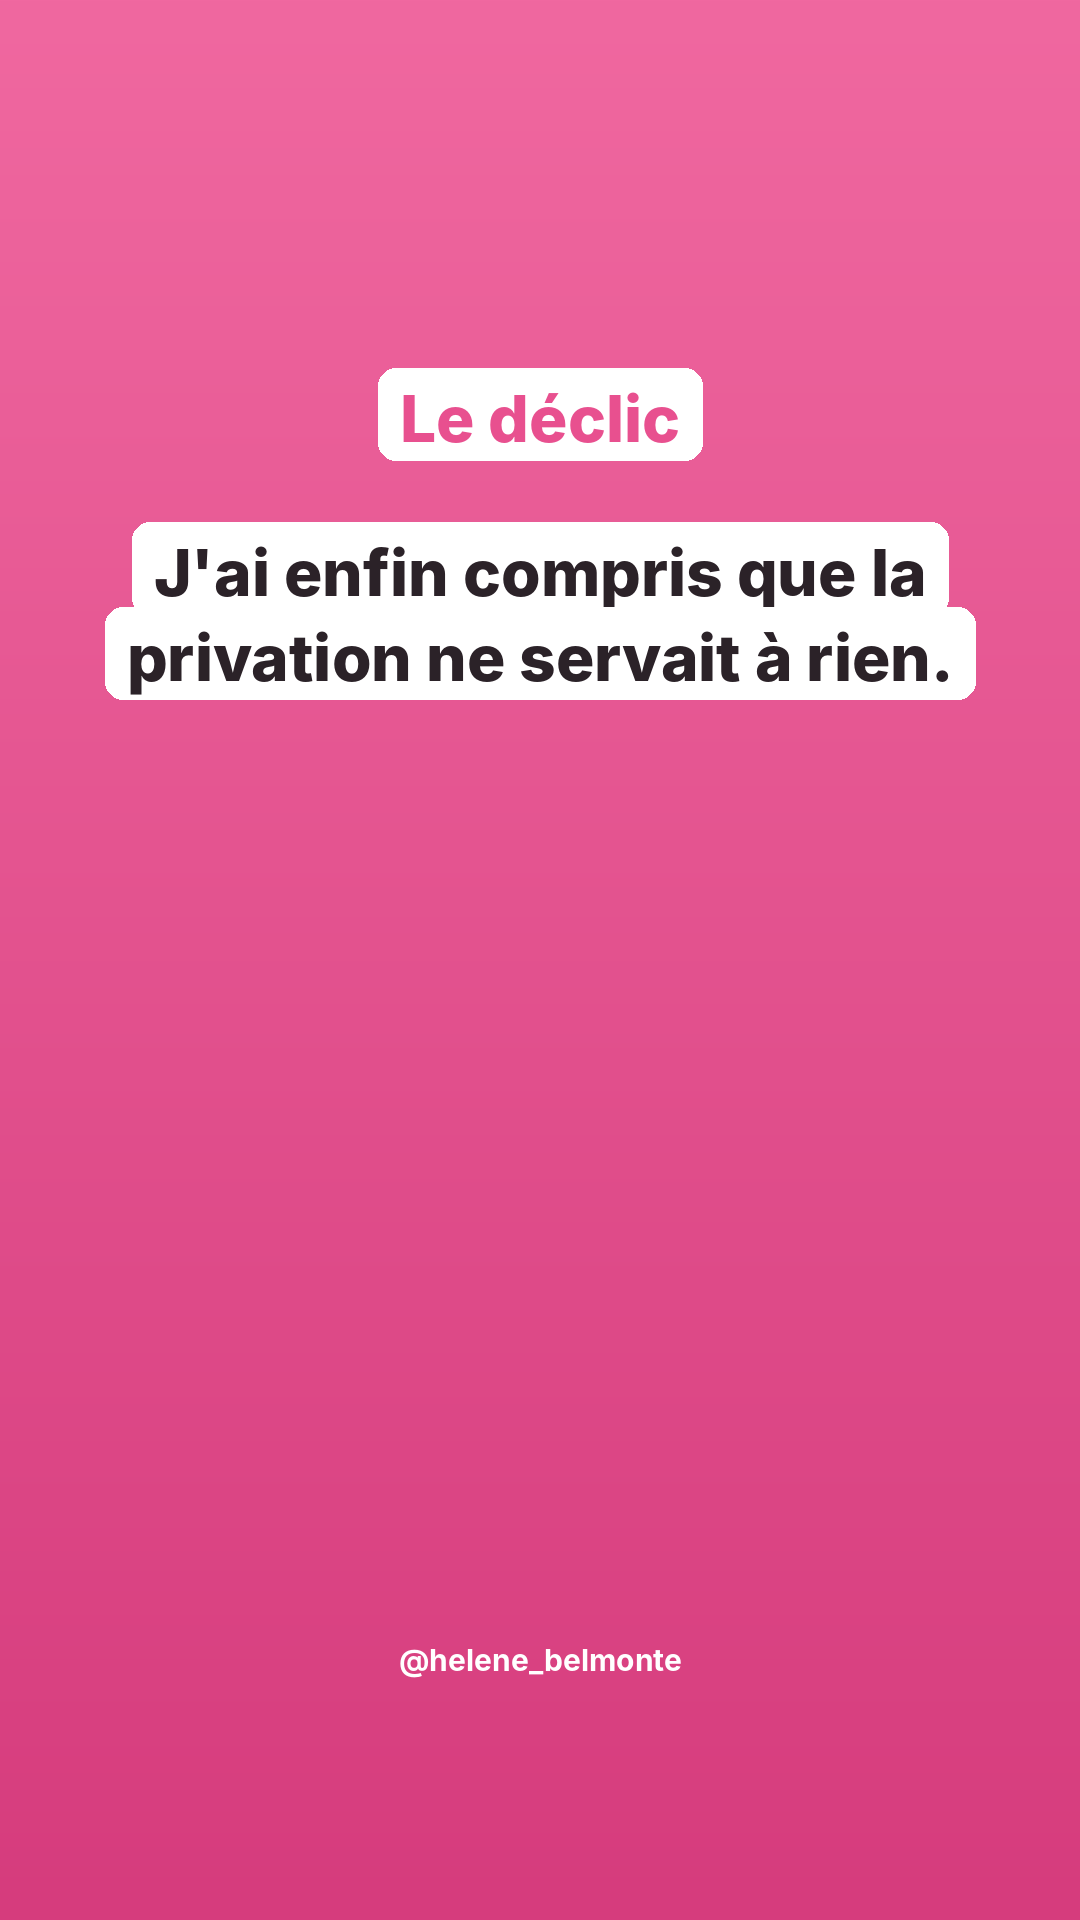
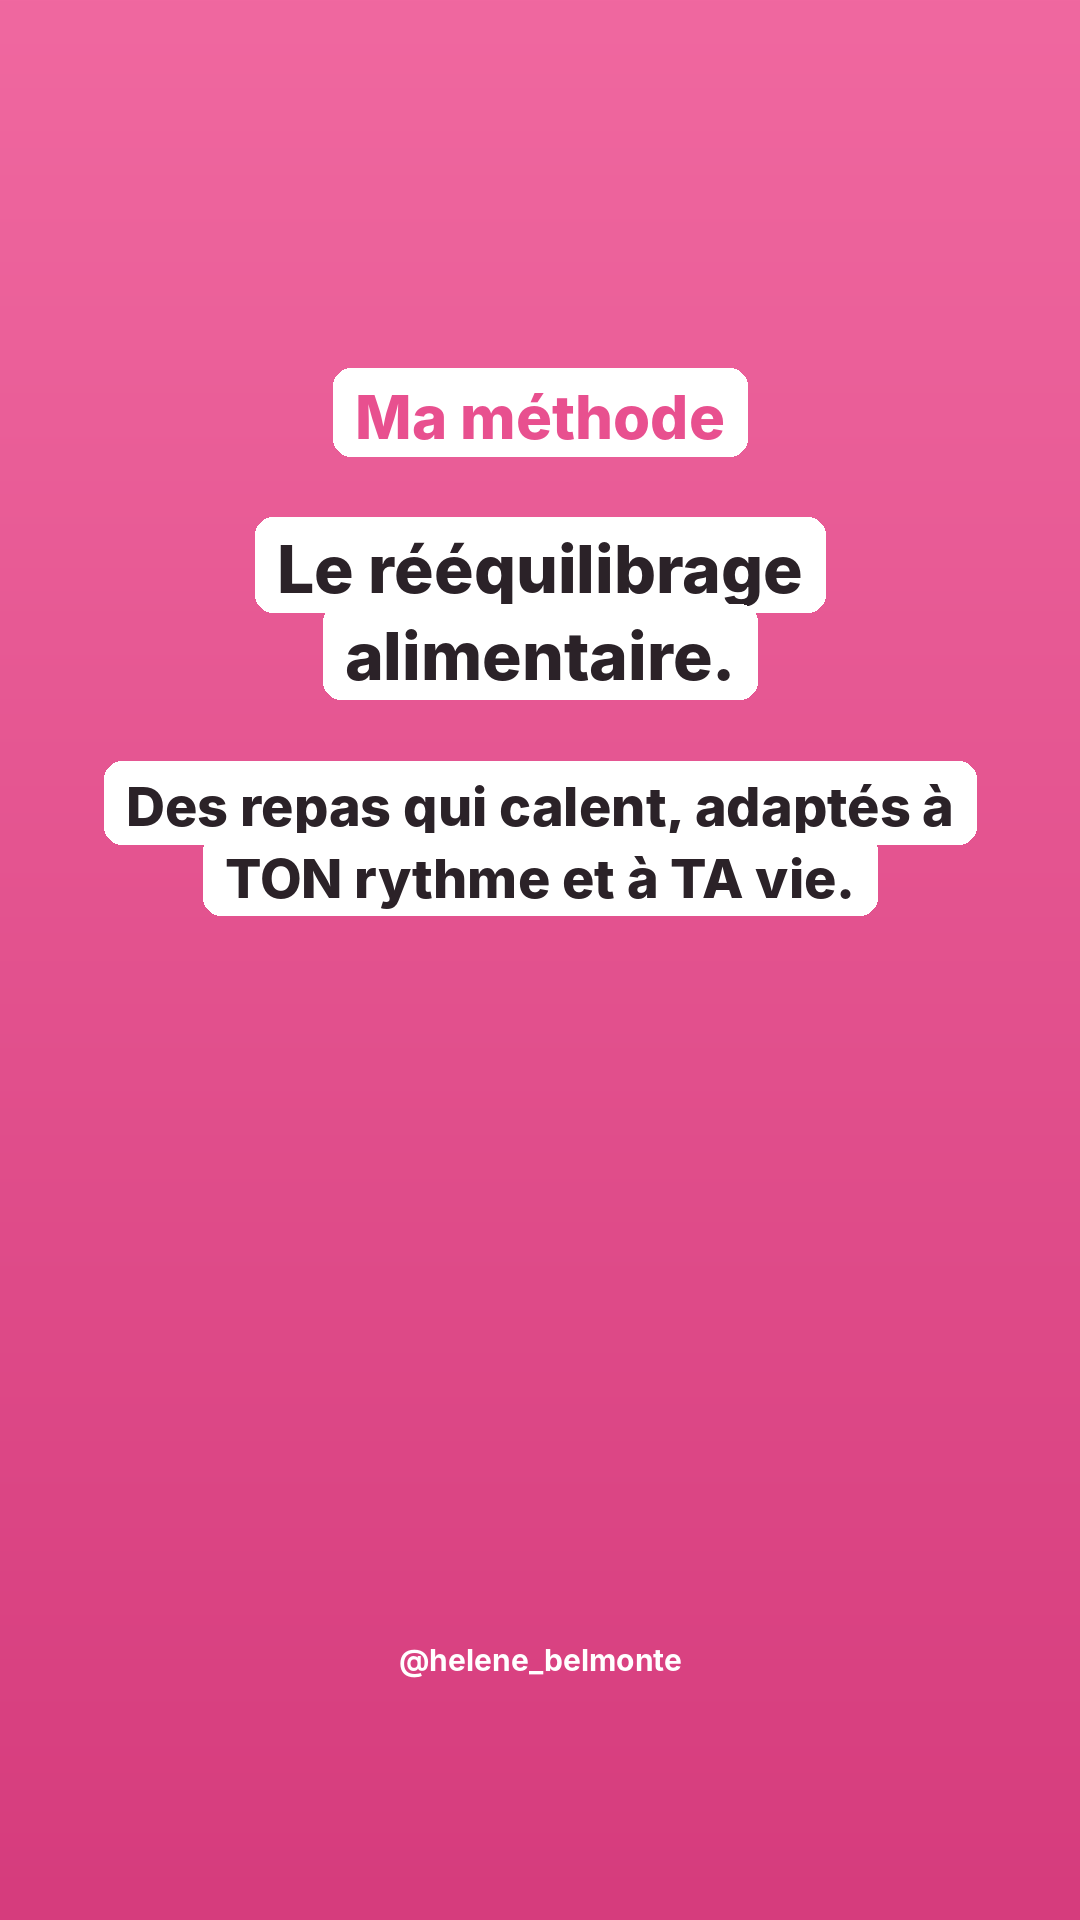
Stories mercredi : version moins perso
Claude-Session: https://claude.ai/code/session_01Qu7Kbk7XztmX7tXcsqwXcr

Changed region(s): [[0.0917, 0.25, 0.9167, 0.5], [0.3056, 0.1875, 0.7028, 0.25]]

diff --git a/contenus/2026-11-25_stories_mercredi_sur_moi/contenu.py b/contenus/2026-11-25_stories_mercredi_sur_moi/contenu.py
@@ -1,20 +1,20 @@
 STORIES = [
- {"bg": "dark", "blocs": [("Je ne vous ai jamais vraiment raconté ça…", 46, "white", "b"),
-                          ("Pendant des années, j'ai eu peur de manger.", 78, "pink"),
-                          ("Je te raconte →", 44, "white", "b")]},
- {"bg": "pink", "blocs": [("Ado, j'étais très complexée.", 62, "white"),
-                          ("Au lycée, j'ai pris beaucoup de poids.\nEt la nourriture est devenue compliquée.", 52, "white")]},
- {"bg": "pink", "blocs": [("J'ai fait appel à plusieurs coachs.", 62, "white"),
-                          ("Je perdais du poids…\npuis je reprenais tout.", 56, "white"),
-                          ("Chaque repas me stressait.", 52, "dark")]},
+ {"bg": "dark", "blocs": [("Pourquoi je ne donne jamais de programme strict à mes clientes", 72, "pink"),
+                          ("Je t'explique →", 44, "white", "b")]},
+ {"bg": "pink", "blocs": [("Je suis aide-soignante.", 64, "white"),
+                          ("Horaires décalés, journées à rallonge, repas sur le pouce…\nJe connais par cœur.", 52, "white")]},
+ {"bg": "pink", "blocs": [("Alors je le sais :", 60, "white"),
+                          ("un programme trop strict, on ne le tient pas.", 64, "dark"),
+                          ("Au bout de 2 semaines, on craque… et on culpabilise.", 52, "white")]},
  {"bg": "dark", "blocs": [("Et toi ?", 70, "pink"),
-                          ("Tu as déjà repris tout le poids que tu avais perdu ?", 60, "white")]},
- {"bg": "pink", "blocs": [("Le déclic", 64, "pinktxt"),
-                          ("J'ai enfin compris que la privation ne servait à rien.", 64, "white")]},
- {"bg": "pink", "blocs": [("Grâce au rééquilibrage alimentaire, j'ai perdu 10 kg.", 60, "white"),
-                          ("Et je ne les ai jamais repris.", 64, "dark"),
-                          ("Aujourd'hui, je me fais plaisir à chaque repas.", 52, "white")]},
- {"bg": "pink", "blocs": [("Si tu te reconnais dans mon histoire…", 60, "white"),
-                          ("Écris-moi MOI en message", 64, "dark"),
-                          ("Je te dis par où commencer, à ton rythme.", 48, "white", "b")]},
+                          ("Tu as déjà abandonné un programme parce qu'il était trop dur ?", 60, "white")]},
+ {"bg": "pink", "blocs": [("Ma méthode", 60, "pinktxt"),
+                          ("Le rééquilibrage alimentaire.", 66, "white"),
+                          ("Des repas qui calent, adaptés à TON rythme et à TA vie.", 54, "white")]},
+ {"bg": "pink", "blocs": [("Sans rien t'interdire.", 64, "dark"),
+                          ("Et en comprenant enfin POURQUOI tu as pris du poids.", 60, "white"),
+                          ("C'est ça qui fait que les kilos ne reviennent pas.", 50, "white")]},
+ {"bg": "pink", "blocs": [("Tu veux savoir si c'est fait pour toi ?", 62, "white"),
+                          ("Écris-moi DÉCLIC en message", 64, "dark"),
+                          ("Je te dis par où commencer.", 48, "white", "b")]},
 ]

diff --git a/CLAUDE.md b/CLAUDE.md
@@ -88,7 +88,7 @@ Docs business : contrat, mail de bienvenue, questionnaire de profil alimentaire,
 |---|---|
 | Lundi | Valeur + CTA |
 | Mardi | Fausse croyance → vraie croyance (accroche « On dit souvent que… ») |
-| Mercredi | Sur elle, en lien avec sa niche |
+| Mercredi | Sur elle, en lien avec sa niche : **angle pro, pas trop perso** (son métier de soignante, sa méthode, ses valeurs de coach). Elle préfère ne pas raconter son histoire intime chaque mercredi. |
 | Jeudi | Avis : clientes, amies, entourage… |
 | Vendredi | Valeur + CTA |
 | Samedi | Lifestyle |
@@ -112,4 +112,4 @@ Règles des stories qui marchent (à appliquer) :
 | 24/11/2026 | **Stories « On dit souvent que… » v2** (style natif, 3 idées reçues + quiz + CTA, 7 stories) : version recommandée | `contenus/2026-11-24_stories_on_dit_souvent_v2/` (script : `scripts/stories_croyances_v2.py`) | Montage perso → « Stories On dit souvent que v2 (24-11) » |
 | 24/11/2026 | **6 fiches stories** (une par thème de la semaine : valeur + CTA, On dit souvent que, sur moi, avis, lifestyle, boîte à questions) | `fiches/*.html` (script : `scripts/fiches_stories.py`) | DIVERS PERSO → dossier « Fiches stories » (`1YGYVkiyITIVGaR2EMS9DvDS6qR1mE-Ab`) |
 | 24/11/2026 | **Messages nouveaux abonnés** (bienvenue ×3 variantes, puis problématique, je creuse, valeur, important et urgent, appel, relances) | `fiches/messages_nouveaux_abonnes.html` | DIVERS PERSO → Google Doc « Messages nouveaux abonnés (bienvenue → appel) » |
-| 25/11/2026 (mercredi) | **Stories « Sur moi » : la peur de manger** (7 stories natives : hook, ado, coachs, sondage, déclic, 10 kg, CTA « écris-moi MOI ») | `contenus/2026-11-25_stories_mercredi_sur_moi/` (générateur réutilisable : `scripts/stories_natif.py` + `contenu.py`) | Montage perso → « Stories Mercredi sur moi (25-11) » |
+| 25/11/2026 (mercredi) | **Stories « Sur moi », version pro** (7 stories natives : « Pourquoi je ne donne jamais de programme strict », soignante, sondage, ma méthode, CTA DÉCLIC). Une 1re version trop perso a été refusée. | `contenus/2026-11-25_stories_mercredi_sur_moi/` (générateur réutilisable : `scripts/stories_natif.py` + `contenu.py`) | Montage perso → « Stories Mercredi sur moi (25-11) » |
